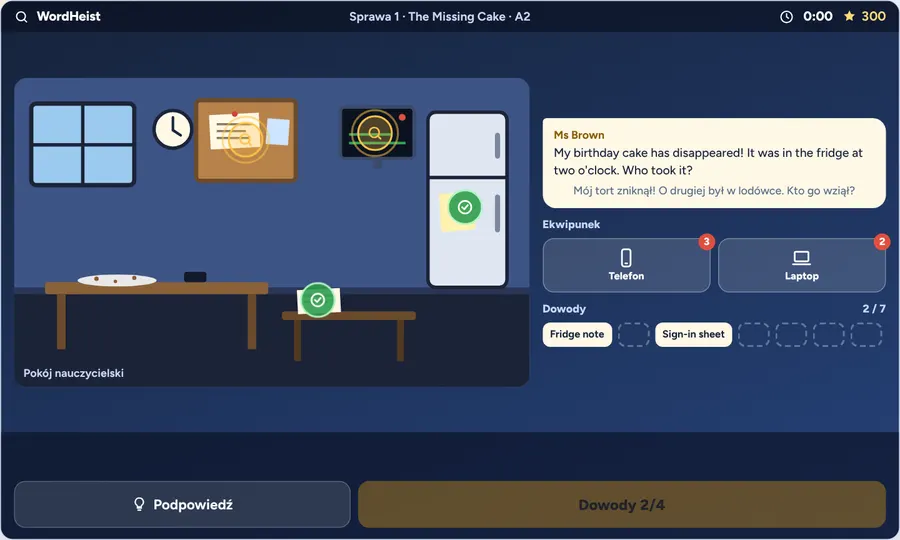
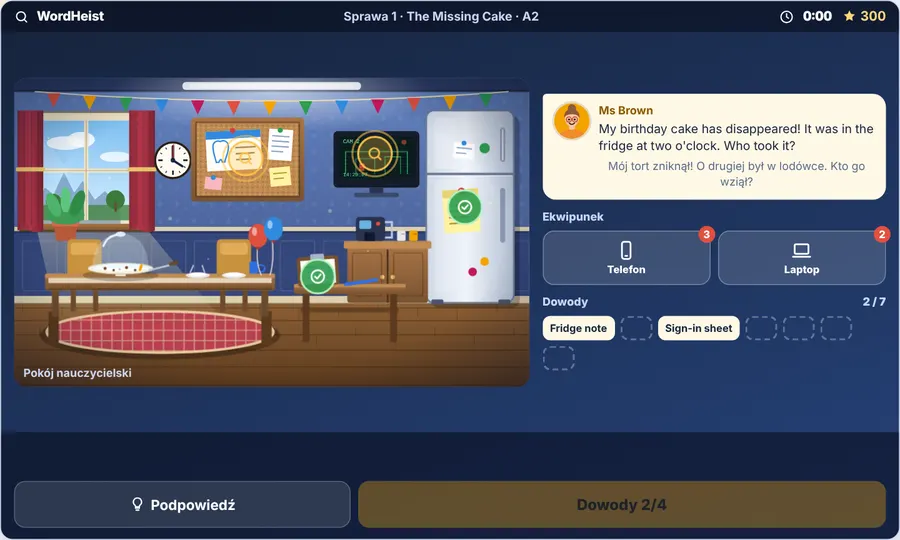
WordHeist: bogatsza grafika (szczegółowy pokój nauczycielski, awatary postaci, dokumenty z taśmą i papierem w linie, ekran kamery, telefon i laptop), nowa karta i zrzut do Poradnika
Claude-Session: https://claude.ai/code/session_01MyUW9fQB8JttoV36Ji4mpt

diff --git a/index.html b/index.html
@@ -910,7 +910,7 @@ details.grp[open] summary::before{transform:rotate(45deg)}
 .hs-chips{display:flex;flex-wrap:wrap;gap:6px}
 .hs-chip{min-width:34px;height:26px;padding:0 8px;border-radius:8px;border:2px dashed rgba(255,255,255,.3);box-sizing:border-box;font-size:11px;font-weight:700;display:inline-flex;align-items:center}
 .hs-chip.on{border:0;background:#fff8e6;color:#16233b}
-.hs-ov{position:absolute;inset:0;z-index:5;overflow:auto;padding:14px 18px;background:rgba(15,22,40,.97);display:flex;flex-direction:column;gap:10px;align-items:stretch}
+.hs-ov{position:absolute;inset:0;z-index:5;overflow:auto;padding:14px 18px;background:#0f1628;display:flex;flex-direction:column;gap:10px;align-items:stretch}
 .hs-ov>*{width:100%;max-width:580px;margin-left:auto;margin-right:auto}
 .hs-ov.mid{align-items:center;justify-content:center;text-align:center}
 .hs-ov.mid p{max-width:460px;margin:0;color:#e3ebfa;font-size:15px}
@@ -961,6 +961,19 @@ details.grp[open] summary::before{transform:rotate(45deg)}
 .hs-words2{display:flex;flex-wrap:wrap;gap:6px;justify-content:center;font-size:12px}.hs-words2 b{width:100%;color:#c9d6f2}.hs-words2 span{padding:3px 10px;border-radius:999px;background:rgba(255,255,255,.12);font-weight:700}
 @media(max-width:699px){.hs-wrap{grid-template-columns:1fr}.hs-stage .gs-body{min-height:560px}.hs-suss{grid-template-columns:1fr 1fr}}
 @media(prefers-reduced-motion:reduce){.hs-spot::after,.hs-inv.glow{animation:none}}
+.hs-bg .hsg-sec{transform-origin:185px 96px;animation:hsrot 60s linear infinite}.hs-bg .hsg-rec{animation:hsblink 1.2s steps(2) infinite}@keyframes hsrot{to{transform:rotate(360deg)}}@keyframes hsblink{50%{opacity:.15}}@media(prefers-reduced-motion:reduce){.hs-bg .hsg-sec,.hs-bg .hsg-rec{animation:none}}
+.hs-bub{display:flex;gap:10px;align-items:flex-start}.hs-bub>div{min-width:0}.hs-av{flex:none;border-radius:50%;box-shadow:0 0 0 2px rgba(0,0,0,.12)}
+.hs-sus span{background:none!important}.hs-sus span .hs-av{display:block}.hs-sus small{text-align:left}
+.hs-dlg p{display:flex;gap:8px;align-items:center}.hs-dlg .you{padding-left:38px}
+.hs-doc{position:relative}.hs-doc::before{content:"";position:absolute;left:28px;top:-10px;width:58px;height:17px;background:rgba(255,255,255,.55);border:1px solid rgba(0,0,0,.1);transform:rotate(-3deg);box-shadow:0 1px 2px rgba(0,0,0,.15)}
+.hs-note{font-family:"Segoe Print","Bradley Hand","Comic Sans MS",cursive,"Figtree",sans-serif;font-weight:600;line-height:26px;background:repeating-linear-gradient(transparent 0 25px,#e3d6b4 25px 26px)}
+.hs-note.card{font-family:"Figtree",system-ui,sans-serif;border:2px solid #2f8ae0;border-radius:8px;padding:10px 12px;background:#fff;line-height:1.5}.hs-note.card::before{content:"\1F9B7 ";font-size:20px}
+.hs-cam{background:repeating-linear-gradient(#0b1220 0 3px,#0e1829 3px 4px);box-shadow:inset 0 0 40px rgba(0,0,0,.7);border:3px solid #3b4a6b}
+.hs-sms div{box-shadow:0 2px 4px rgba(0,0,0,.2)}.hs-mail{border-left:4px solid #2f8ae0;padding-left:12px}
+.hs-app.lp{border:4px solid #3b4a6b;border-radius:12px}.hs-app.lp .hs-appbar::before{content:"";width:9px;height:9px;border-radius:50%;background:#e0503f;box-shadow:14px 0 #f5a300,28px 0 #2e9d4f;margin-right:34px}
+.hs-app.ph .hs-appbar{position:relative;padding-top:18px}.hs-app.ph .hs-appbar::before{content:"";width:46px;height:5px;border-radius:3px;background:#2a3550;position:absolute;left:50%;top:6px;transform:translateX(-50%)}
+.hs-row{padding-left:58px}.hs-row .hs-av,.hs-row .hs-ic{position:absolute;left:12px;top:50%;margin-top:-17px}.hs-ic{width:34px;height:34px;border-radius:50%;background:#2f8ae0;color:#fff;display:flex;align-items:center;justify-content:center}
+.hs-app.ph{background:linear-gradient(170deg,#1a2547,#0c1220);max-width:340px!important}
 .cn-lbp .cn-seg,.hwtabs{display:flex;flex-wrap:wrap;width:fit-content;max-width:100%;box-sizing:border-box}
 </style>
 </head>
@@ -3198,6 +3211,14 @@ const HSI=[
  {id:9,src:'laptop',n:'Canteen e-mail',s:'jadłospis',k:'mail',f:'Canteen',sub:'Lunch menu for next week',t:'Soup on Monday, pizza on Tuesday, fish on Friday.',pl:'Zupa w poniedziałek, pizza we wtorek, ryba w piątek.',q:null}];
 const HSW=[['wpół do','half past'],['kwadrans do','quarter to'],['pożyczać','borrow'],['alibi','alibi'],['dowód','evidence'],['podejrzany','suspect']];
 const HSQ=["Where","were","you","at","two","o'clock?"],HSPROOF=[2,3,6,7],HSEV=HSI.filter(x=>x.q);
+const HSAV={
+ tom:{bg:'#2358d6',skin:'#f1c7a0',top:'#3f7de0',hair:'<path d="M13.5 20c-1-9 5-13 10.5-13s11.5 4 10.5 13c-2-3-4-5-6-5.5-3 2-8 2-10 0-2 .5-3.5 2.5-5 5.5z" fill="#5a3a1e"/><path d="M19 8l2-3 2 3M26 8l3-2-.5 3.5" stroke="#5a3a1e" stroke-width="2" fill="none" stroke-linecap="round"/>'},
+ lucy:{bg:'#c2185b',skin:'#f6d0b0',top:'#f48fb1',back:'<path d="M12 20c0-9 5-13 12-13s12 4 12 13v19H12z" fill="#2b1a14"/>',hair:'<path d="M14 19c2-7 7-9 10-9s8 2 10 9c-3-3-6-4-10-4s-7 1-10 4z" fill="#2b1a14"/>'},
+ green:{bg:'#00796b',skin:'#e8b88f',top:'#26a69a',hair:'<path d="M14 18c0-7 5-10 10-10s10 3 10 10c-3-3-6-4-10-4s-7 1-10 4z" fill="#6b5a4a"/>',front:'<g fill="none" stroke="#16233b" stroke-width="1.2"><circle cx="20" cy="22" r="3.4"/><circle cx="28" cy="22" r="3.4"/><path d="M23.4 22h1.2"/></g><path d="M19 36l5 9 5-9" fill="none" stroke="#fff" stroke-width="1.1"/><circle cx="24" cy="45" r="2" fill="#f5a300"/>'},
+ ola:{bg:'#6a1b9a',skin:'#f1c7a0',top:'#2e9d4f',back:'<path d="M12 22c0-10 5-15 12-15s12 5 12 15v8H12z" fill="#7b2da0"/>',hair:'<path d="M14 19c2-6 6-8 10-8s8 2 10 8c-3-2-6-3-10-3s-7 1-10 3z" fill="#9b4dc4"/>',front:'<path d="M16 48V39h16v9z" fill="#4bbf70"/>'},
+ mum:{bg:'#7e57c2',skin:'#f1c7a0',top:'#b39ddb',back:'<path d="M12 20c0-9 5-13 12-13s12 4 12 13v10H12z" fill="#a0522d"/>',hair:'<path d="M14 19c2-7 7-9 10-9s8 2 10 9c-3-3-6-4-10-4s-7 1-10 4z" fill="#a0522d"/>'},
+ brown:{bg:'#f5a300',skin:'#f1c7a0',top:'#f08a2c',back:'<circle cx="24" cy="7" r="5.5" fill="#8a5a3a"/>',hair:'<path d="M13.5 20c0-9 5-12 10.5-12s10.5 3 10.5 12c-2-3-4-5-10.5-5s-8.5 2-10.5 5z" fill="#8a5a3a"/>',front:'<g fill="none" stroke="#c0392b" stroke-width="1.2"><circle cx="20" cy="22" r="3.4"/><circle cx="28" cy="22" r="3.4"/><path d="M23.4 22h1.2"/></g>'}};
+function hsAv(k,z){const a=HSAV[k];return'<svg class="hs-av" viewBox="0 0 48 48" width="'+z+'" height="'+z+'" aria-hidden="true"><defs><clipPath id="hsav-'+k+'"><circle cx="24" cy="24" r="24"/></clipPath></defs><g clip-path="url(#hsav-'+k+')"><rect width="48" height="48" fill="'+a.bg+'"/>'+(a.back||'')+'<path d="M6 48c0-9 8-13 18-13s18 4 18 13z" fill="'+a.top+'"/><rect x="20" y="28" width="8" height="8" rx="3" fill="'+a.skin+'"/><ellipse cx="24" cy="21" rx="9.5" ry="10.5" fill="'+a.skin+'"/>'+a.hair+'<circle cx="20.2" cy="22" r="1.3" fill="#2a1a0e"/><circle cx="27.8" cy="22" r="1.3" fill="#2a1a0e"/><path d="M20.5 27c2 2 5 2 7 0" stroke="#2a1a0e" stroke-width="1.4" fill="none" stroke-linecap="round"/><circle cx="17.2" cy="25" r="2" fill="#ef8a8a" opacity=".45"/><circle cx="30.8" cy="25" r="2" fill="#ef8a8a" opacity=".45"/>'+(a.front||'')+'</g></svg>'}
 const hsIt=id=>HSI.find(x=>x.id===id);
 function hsNew(){HS={go:0,v:'scene',app:'',cur:0,done:{},seen:{},pl:{},hid:{},wr:{},bad:{},err:0,hint:0,t0:0,tEnd:0,interr:0,sus:-1,sel:[],ask:null,msg:'',glow:'',over:0};return HS}
 function hsSecs(){return HS.go&&HS.t0?Math.max(0,Math.round(((HS.over?HS.tEnd:Date.now())-HS.t0)/1000)):0}
@@ -3271,21 +3292,82 @@ function hsProfile(){
    '<button class="nb" onclick="show(\'heist\')">Graj</button>')
 }
 const hsAwardHtml=()=>HS.gain==null?'liczę…':HS.gain>0?'+'+HS.gain+' do rankingu dziś':'masz dziś już lepszy wynik w tej sprawie';
-const HSSCENE=`<svg class="hs-bg" viewBox="0 0 600 360" preserveAspectRatio="xMidYMid meet" aria-hidden="true"><rect width="600" height="250" fill="#3d5486"/><rect y="250" width="600" height="110" fill="#1c2338"/><rect y="244" width="600" height="8" fill="#2a3556"/>
-<rect x="20" y="30" width="120" height="95" rx="6" fill="#9ccaf0" stroke="#1c2338" stroke-width="5"/><path d="M80 30v95M20 78h120" stroke="#1c2338" stroke-width="4"/>
-<circle cx="185" cy="60" r="22" fill="#fff8e6" stroke="#1c2338" stroke-width="4"/><path d="M185 46v15l9 6" stroke="#16233b" stroke-width="3" fill="none" stroke-linecap="round"/>
-<rect x="212" y="26" width="116" height="94" rx="5" fill="#b7824a" stroke="#6b4a2b" stroke-width="5"/><rect x="228" y="42" width="58" height="40" fill="#fff8e6" transform="rotate(-3 257 62)"/><path d="M236 54h40M236 62h34M236 70h38" stroke="#8a7a5a" stroke-width="2.5"/><rect x="294" y="48" width="26" height="30" fill="#cde4ff" transform="rotate(4 307 63)"/><circle cx="257" cy="42" r="3.4" fill="#d6403a"/>
-<rect x="380" y="34" width="86" height="60" rx="5" fill="#0b1220" stroke="#3b4a6b" stroke-width="4"/><path d="M390 76h66M390 66h50" stroke="#2fa05a" stroke-width="3"/><circle cx="452" cy="46" r="4" fill="#e0503f"/><rect x="418" y="94" width="10" height="12" fill="#3b4a6b"/>
-<rect x="482" y="40" width="92" height="204" rx="9" fill="#dfe6f2" stroke="#1c2338" stroke-width="4"/><path d="M482 116h92" stroke="#1c2338" stroke-width="4"/><rect x="560" y="64" width="6" height="30" rx="3" fill="#7a869f"/><rect x="560" y="136" width="6" height="44" rx="3" fill="#7a869f"/><rect x="496" y="134" width="40" height="44" fill="#fff3b0" transform="rotate(-4 516 156)"/>
-<rect x="36" y="238" width="260" height="14" rx="3" fill="#8a6238"/><rect x="50" y="252" width="10" height="64" fill="#6b4a2b"/><rect x="272" y="252" width="10" height="64" fill="#6b4a2b"/><ellipse cx="120" cy="236" rx="46" ry="7" fill="#e8e8e8"/><circle cx="96" cy="234" r="2.6" fill="#8a5a2b"/><circle cx="118" cy="237" r="2" fill="#8a5a2b"/><circle cx="140" cy="233" r="2.4" fill="#8a5a2b"/><rect x="198" y="226" width="26" height="12" rx="3" fill="#11182b"/>
-<rect x="312" y="272" width="156" height="10" rx="3" fill="#6b4a2b"/><rect x="326" y="282" width="8" height="48" fill="#52381f"/><rect x="446" y="282" width="8" height="48" fill="#52381f"/><rect x="330" y="246" width="50" height="28" fill="#fff8e6" transform="rotate(-3 355 260)"/><path d="M338 254h34M338 261h28" stroke="#8a7a5a" stroke-width="2.5"/></svg>`;
-const HSSP={fridge:[87.5,42,'lodówka'],cam:[70,18,'kamera'],sheet:[59,72,'lista obecności'],board:[45,20,'tablica ogłoszeń']};
+const HSSCENE=`<svg class="hs-bg" viewBox="0 0 600 360" preserveAspectRatio="xMidYMid meet" aria-hidden="true"><defs>
+<linearGradient id="hsg-w" x1="0" y1="0" x2="0" y2="1"><stop offset="0" stop-color="#6483c0"/><stop offset="1" stop-color="#43588f"/></linearGradient>
+<pattern id="hsg-p" width="20" height="20" patternUnits="userSpaceOnUse"><path d="M10 3l3 4-3 4-3-4z" fill="#fff" opacity=".07"/><circle cx="0" cy="13" r="1.4" fill="#fff" opacity=".05"/><circle cx="20" cy="13" r="1.4" fill="#fff" opacity=".05"/></pattern>
+<linearGradient id="hsg-f" x1="0" y1="0" x2="0" y2="1"><stop offset="0" stop-color="#8b5e34"/><stop offset="1" stop-color="#5b3a1e"/></linearGradient>
+<linearGradient id="hsg-sky" x1="0" y1="0" x2="0" y2="1"><stop offset="0" stop-color="#7ec0f2"/><stop offset="1" stop-color="#d8efff"/></linearGradient>
+<linearGradient id="hsg-fr" x1="0" y1="0" x2="1" y2="0"><stop offset="0" stop-color="#cfd8e6"/><stop offset=".45" stop-color="#f1f5fb"/><stop offset="1" stop-color="#b3bfd2"/></linearGradient>
+<linearGradient id="hsg-wd" x1="0" y1="0" x2="0" y2="1"><stop offset="0" stop-color="#a77446"/><stop offset="1" stop-color="#7a5230"/></linearGradient>
+<linearGradient id="hsg-cu" x1="0" y1="0" x2="1" y2="0"><stop offset="0" stop-color="#8c2a3a"/><stop offset=".5" stop-color="#b5384b"/><stop offset="1" stop-color="#7a2231"/></linearGradient>
+<linearGradient id="hsg-bm" x1="0" y1="0" x2="0" y2="1"><stop offset="0" stop-color="#fff6c8" stop-opacity=".34"/><stop offset="1" stop-color="#fff6c8" stop-opacity="0"/></linearGradient>
+<radialGradient id="hsg-lg" cx=".5" cy=".5" r=".5"><stop offset="0" stop-color="#fff" stop-opacity=".55"/><stop offset="1" stop-color="#fff" stop-opacity="0"/></radialGradient>
+<radialGradient id="hsg-vg" cx=".5" cy=".5" r=".75"><stop offset=".6" stop-color="#0b1226" stop-opacity="0"/><stop offset="1" stop-color="#0b1226" stop-opacity=".5"/></radialGradient>
+<pattern id="hsg-ck" width="6" height="6" patternUnits="userSpaceOnUse"><rect width="6" height="6" fill="#c08a52"/><circle cx="1.5" cy="1.5" r=".8" fill="#9d6c3c"/><circle cx="4.5" cy="4" r=".9" fill="#d9a56e"/></pattern>
+<pattern id="hsg-rg" width="12" height="12" patternUnits="userSpaceOnUse"><rect width="12" height="12" fill="#b8404f"/><path d="M0 6h12M6 0v12" stroke="#e7c9a0" stroke-width="1.2" opacity=".7"/></pattern>
+</defs>
+<rect width="600" height="262" fill="url(#hsg-w)"/><rect width="600" height="262" fill="url(#hsg-p)"/>
+<rect y="176" width="600" height="86" fill="#34467a"/><path d="M0 176h600" stroke="#dccfae" stroke-width="5"/><path d="M0 180h600" stroke="#000" stroke-opacity=".18" stroke-width="2"/>
+${Array.from({length:12},(_,i)=>`<rect x="${10+i*50}" y="190" width="40" height="58" rx="2" fill="none" stroke="#fff" stroke-opacity=".1" stroke-width="1.5"/>`).join('')}
+<rect y="254" width="600" height="9" fill="#dccfae"/><rect y="262" width="600" height="2" fill="#000" fill-opacity=".25"/>
+<rect y="263" width="600" height="97" fill="url(#hsg-f)"/>
+${Array.from({length:7},(_,i)=>`<path d="M0 ${268+i*14+i*i*.8}H600" stroke="#2c1a0b" stroke-opacity=".35" stroke-width="1.2"/>`).join('')}
+${Array.from({length:14},(_,i)=>`<path d="M${i*46+10} ${264+(i%3)*3}v${8+(i%4)*2}M${i*46+30} ${290+(i%2)*10}v12" stroke="#2c1a0b" stroke-opacity=".28" stroke-width="1"/>`).join('')}
+<rect width="600" height="16" fill="#2b3a63"/><rect y="14" width="600" height="3" fill="#000" fill-opacity=".25"/>
+<ellipse cx="300" cy="18" rx="190" ry="46" fill="url(#hsg-lg)"/><rect x="196" y="5" width="208" height="9" rx="4" fill="#f1f6ff"/><rect x="204" y="7" width="192" height="4" rx="2" fill="#fff"/>
+<path d="M24 16Q300 38 576 16" fill="none" stroke="#e9d9b0" stroke-width="1.6"/>
+${Array.from({length:13},(_,i)=>{const t=.04+i*.076,x=24+552*t,y=16+44*t*(1-t);return`<path d="M${(x-8).toFixed(1)} ${y.toFixed(1)}h16l-8 17z" fill="${['#e0503f','#f5a300','#2e9d4f','#2f8ae0','#c2185b'][i%5]}"/><path d="M${(x-8).toFixed(1)} ${y.toFixed(1)}h16" stroke="#fff" stroke-opacity=".5" stroke-width="1"/>`}).join('')}
+<polygon points="24,166 146,166 262,306 56,306" fill="url(#hsg-bm)"/>
+<g><rect x="12" y="40" width="144" height="136" rx="5" fill="#efe3c8" stroke="#8d7a52" stroke-width="2"/><rect x="22" y="50" width="124" height="116" fill="url(#hsg-sky)"/>
+<ellipse cx="60" cy="76" rx="22" ry="8" fill="#fff" opacity=".85"/><ellipse cx="78" cy="72" rx="16" ry="9" fill="#fff" opacity=".85"/><ellipse cx="118" cy="92" rx="18" ry="6" fill="#fff" opacity=".75"/>
+<path d="M22 150l14-22 10 8 12-26 12 24 10-14 14 22 12-10 18 20v18H22z" fill="#5a7aa8" opacity=".55"/><rect x="22" y="148" width="124" height="18" fill="#4c8a4a" opacity=".85"/><circle cx="46" cy="144" r="9" fill="#3c7a3b"/><rect x="45" y="144" width="2.4" height="10" fill="#6b4a2b"/><circle cx="118" cy="142" r="11" fill="#3c7a3b"/><rect x="117" y="144" width="2.6" height="12" fill="#6b4a2b"/>
+<path d="M84 50v116M22 108h124" stroke="#efe3c8" stroke-width="5"/><path d="M84 50v116M22 108h124" stroke="#8d7a52" stroke-opacity=".5" stroke-width="1"/>
+<path d="M22 50l45 66h-45z" fill="#fff" opacity=".14"/>
+<rect x="6" y="170" width="156" height="9" rx="2" fill="url(#hsg-wd)"/><rect x="6" y="177" width="156" height="3" fill="#000" fill-opacity=".25"/>
+<path d="M4 38h30v140q-8 4-15 0t-15 0z" fill="url(#hsg-cu)"/><path d="M12 40v130M20 40v132M28 40v128" stroke="#000" stroke-opacity=".16" stroke-width="1.6"/><path d="M134 38h30v140q-8 4-15 0t-15 0z" fill="url(#hsg-cu)"/><path d="M142 40v130M150 40v132M158 40v128" stroke="#000" stroke-opacity=".16" stroke-width="1.6"/>
+<rect x="2" y="104" width="34" height="5" rx="2" fill="#e7c36a"/><rect x="132" y="104" width="34" height="5" rx="2" fill="#e7c36a"/></g>
+<path d="M46 170h28l-3 20H49z" fill="#b5593a"/><rect x="44" y="167" width="32" height="6" rx="2" fill="#cf6d4a"/><ellipse cx="60" cy="160" rx="22" ry="11" fill="#3f9a56"/><ellipse cx="46" cy="148" rx="7" ry="15" fill="#4fb36a" transform="rotate(-24 46 148)"/><ellipse cx="74" cy="146" rx="7" ry="16" fill="#2f8a48" transform="rotate(22 74 146)"/><ellipse cx="60" cy="142" rx="6" ry="15" fill="#5cc47e"/>
+<g><circle cx="185" cy="96" r="22" fill="#2a1f14"/><circle cx="185" cy="96" r="19.5" fill="#fffaf0"/>${Array.from({length:12},(_,i)=>`<path d="M185 ${79}v${i%3?2.5:5}" stroke="#16233b" stroke-width="${i%3?1:2}" transform="rotate(${i*30} 185 96)"/>`).join('')}<path d="M185 96V80" stroke="#16233b" stroke-width="3" stroke-linecap="round"/><path d="M185 96l11 7" stroke="#16233b" stroke-width="2.6" stroke-linecap="round"/><path class="hsg-sec" d="M185 98V77" stroke="#d6403a" stroke-width="1.2"/><circle cx="185" cy="96" r="2.6" fill="#16233b"/><path d="M172 83a16 16 0 0 1 11-5" stroke="#fff" stroke-opacity=".8" stroke-width="2" fill="none" stroke-linecap="round"/></g>
+<g><rect x="206" y="46" width="132" height="98" rx="5" fill="url(#hsg-wd)"/><rect x="212" y="52" width="120" height="86" fill="url(#hsg-ck)"/><rect x="212" y="52" width="120" height="86" fill="none" stroke="#000" stroke-opacity=".3" stroke-width="2"/>
+<g transform="rotate(-3 246 88)"><rect x="224" y="62" width="64" height="46" fill="#fffdf6"/><rect x="224" y="62" width="64" height="9" fill="#2f8ae0"/><path d="M232 80c0-6 5-8 9-6 4-2 9 0 9 6 0 8-4 12-5 18h-3c-1-5-3-3-4 0h-3c-1-6-3-10-3-18z" fill="none" stroke="#2f8ae0" stroke-width="1.6"/><path d="M258 82h24M258 89h22M258 96h18" stroke="#8a7a5a" stroke-width="1.8"/><circle cx="256" cy="62" r="3.2" fill="#d6403a"/></g>
+<rect x="296" y="60" width="28" height="36" fill="#fff" transform="rotate(4 310 78)"/><path d="M300 68h20M300 74h20M300 80h20M300 86h14" stroke="#8aa0c8" stroke-width="1.5" transform="rotate(4 310 78)"/><circle cx="310" cy="61" r="3" fill="#2e9d4f"/>
+<rect x="298" y="104" width="24" height="22" fill="#fff3a3" transform="rotate(-5 310 115)"/><path d="M302 111h16M302 117h12" stroke="#b79b2e" stroke-width="1.4" transform="rotate(-5 310 115)"/><rect x="222" y="116" width="20" height="14" fill="#f9b7c0" transform="rotate(6 232 123)"/><circle cx="232" cy="116" r="2.8" fill="#2f8ae0"/></g>
+<g><rect x="372" y="62" width="100" height="66" rx="5" fill="#161c2b"/><rect x="378" y="68" width="88" height="50" rx="2" fill="#07101a"/><rect x="378" y="68" width="88" height="50" rx="2" fill="#2fa05a" opacity=".1"/>
+<path d="M386 112V86h72v26" fill="none" stroke="#2fd47a" stroke-opacity=".7" stroke-width="1.3"/><path d="M398 112V94h22v18M432 112V92h18v20" fill="none" stroke="#2fd47a" stroke-opacity=".55" stroke-width="1.2"/><rect x="402" y="100" width="6" height="8" fill="#e0503f" opacity=".85"/>
+${Array.from({length:12},(_,i)=>`<path d="M378 ${70+i*4}h88" stroke="#000" stroke-opacity=".28" stroke-width=".8"/>`).join('')}
+<circle class="hsg-rec" cx="454" cy="75" r="3" fill="#e0503f"/><text x="383" y="76" font-family="ui-monospace,Menlo,Consolas,monospace" font-size="6.5" fill="#7bf0a6">CAM 2</text><text x="383" y="115" font-family="ui-monospace,Menlo,Consolas,monospace" font-size="6" fill="#7bf0a6">14:20:07</text>
+<rect x="414" y="128" width="16" height="8" fill="#2a3350"/><rect x="396" y="134" width="52" height="5" rx="2" fill="#3b4a6b"/></g>
+<g><rect x="480" y="40" width="104" height="224" rx="10" fill="#000" fill-opacity=".25" transform="translate(5 4)"/><rect x="480" y="38" width="102" height="224" rx="9" fill="url(#hsg-fr)" stroke="#6d7b95" stroke-width="2"/><path d="M480 112h102" stroke="#6d7b95" stroke-width="3"/><path d="M482 114h98" stroke="#fff" stroke-opacity=".6" stroke-width="1"/>
+<rect x="566" y="58" width="6" height="40" rx="3" fill="#8a97b0"/><rect x="566" y="128" width="6" height="64" rx="3" fill="#8a97b0"/><rect x="568" y="60" width="2" height="36" fill="#fff" fill-opacity=".6"/>
+<rect x="490" y="46" width="26" height="60" rx="4" fill="#fff" opacity=".22"/><rect x="490" y="120" width="22" height="130" rx="4" fill="#fff" opacity=".2"/>
+<rect x="500" y="130" width="42" height="50" fill="#fff3a3" transform="rotate(-4 521 155)"/><rect x="500" y="130" width="42" height="9" fill="#e7d374" transform="rotate(-4 521 155)"/><path d="M506 148h30M506 155h28M506 162h30M506 169h18" stroke="#9a8420" stroke-width="1.6" transform="rotate(-4 521 155)"/><circle cx="521" cy="132" r="4.2" fill="#d6403a"/><circle cx="520" cy="131" r="1.4" fill="#fff" opacity=".7"/>
+<circle cx="548" cy="82" r="6" fill="#2e9d4f"/><rect x="512" y="76" width="24" height="18" fill="#fff" transform="rotate(5 524 85)"/><path d="M515 82h18M515 88h12" stroke="#8aa0c8" stroke-width="1.4" transform="rotate(5 524 85)"/><circle cx="524" cy="76" r="2.8" fill="#2f8ae0"/><circle cx="548" cy="214" r="5" fill="#f5a300"/><circle cx="534" cy="226" r="5" fill="#c2185b"/>
+<rect x="486" y="258" width="14" height="6" rx="2" fill="#4a5470"/><rect x="564" y="258" width="14" height="6" rx="2" fill="#4a5470"/></g>
+<g><rect x="388" y="196" width="94" height="66" rx="3" fill="url(#hsg-wd)"/><rect x="384" y="190" width="102" height="9" rx="2" fill="#c08a52"/><path d="M435 200v62" stroke="#4b3019" stroke-width="2"/><circle cx="429" cy="232" r="2.4" fill="#e7c36a"/><circle cx="441" cy="232" r="2.4" fill="#e7c36a"/><rect x="394" y="204" width="34" height="50" rx="2" fill="none" stroke="#000" stroke-opacity=".22" stroke-width="1.4"/><rect x="442" y="204" width="34" height="50" rx="2" fill="none" stroke="#000" stroke-opacity=".22" stroke-width="1.4"/>
+<rect x="398" y="162" width="34" height="28" rx="4" fill="#2a3350"/><rect x="402" y="166" width="14" height="10" rx="2" fill="#7bd3ff" opacity=".8"/><circle cx="424" cy="170" r="2.4" fill="#e0503f"/><rect x="408" y="180" width="12" height="10" fill="#0f1730"/><path d="M432 168h8v18h-8" fill="none" stroke="#bfc9db" stroke-width="2.4"/><rect x="446" y="178" width="10" height="12" rx="2" fill="#e8e8e8"/><rect x="460" y="178" width="10" height="12" rx="2" fill="#f5a300"/><path d="M451 182h4M465 182h4" stroke="#000" stroke-opacity=".25" stroke-width="1.4"/></g>
+<g><ellipse cx="170" cy="300" rx="140" ry="28" fill="#000" fill-opacity=".3"/><ellipse cx="170" cy="296" rx="132" ry="24" fill="url(#hsg-rg)"/><ellipse cx="170" cy="296" rx="132" ry="24" fill="none" stroke="#e7c9a0" stroke-width="3"/></g>
+<g><rect x="62" y="188" width="40" height="46" rx="5" fill="#c9923e"/><rect x="66" y="192" width="32" height="14" rx="3" fill="#e0ac5a"/><rect x="66" y="232" width="6" height="40" fill="#6b4a2b"/><rect x="92" y="232" width="6" height="40" fill="#6b4a2b"/>
+<rect x="236" y="188" width="40" height="46" rx="5" fill="#c9923e"/><rect x="240" y="192" width="32" height="14" rx="3" fill="#e0ac5a"/><rect x="240" y="232" width="6" height="40" fill="#6b4a2b"/><rect x="266" y="232" width="6" height="40" fill="#6b4a2b"/></g>
+<g><rect x="40" y="272" width="12" height="40" fill="#5b3a1e"/><rect x="288" y="272" width="12" height="40" fill="#5b3a1e"/><rect x="44" y="244" width="8" height="34" fill="#6b4a2b"/><rect x="288" y="244" width="8" height="34" fill="#6b4a2b"/>
+<rect x="36" y="228" width="268" height="20" rx="3" fill="url(#hsg-wd)"/><rect x="36" y="228" width="268" height="5" rx="2" fill="#c08a52"/><path d="M40 246h260" stroke="#000" stroke-opacity=".25" stroke-width="2"/><rect x="40" y="233" width="260" height="6" fill="#fff8e6" opacity=".75"/><path d="M40 233h260" stroke="#c9b48a" stroke-width="1"/></g>
+<g><ellipse cx="124" cy="230" rx="44" ry="7" fill="#000" fill-opacity=".22"/><rect x="118" y="222" width="12" height="9" fill="#efe9dd"/><ellipse cx="124" cy="222" rx="38" ry="6.5" fill="#f6f1e6" stroke="#cdbfa3" stroke-width="1"/><ellipse cx="124" cy="221" rx="30" ry="4.2" fill="#fff"/>
+<path d="M92 222c0-26 14-40 32-40s32 14 32 40z" fill="#cfe9ff" opacity=".28" stroke="#fff" stroke-opacity=".7" stroke-width="1.4"/><ellipse cx="124" cy="182" rx="6" ry="3" fill="#e9f5ff" opacity=".9"/><path d="M104 196c3-8 9-12 15-13" stroke="#fff" stroke-width="2.4" stroke-linecap="round" fill="none" opacity=".85"/>
+<circle cx="106" cy="222" r="1.8" fill="#7a4a24"/><circle cx="116" cy="224" r="1.4" fill="#7a4a24"/><circle cx="131" cy="221" r="1.8" fill="#7a4a24"/><circle cx="141" cy="224" r="1.5" fill="#7a4a24"/><circle cx="123" cy="223" r="1.2" fill="#e8a2b0"/><rect x="146" y="217" width="3" height="8" rx="1.4" fill="#f5a300" transform="rotate(20 147 221)"/><path d="M158 224l24-6" stroke="#b9c3d4" stroke-width="2.4" stroke-linecap="round"/><rect x="180" y="214" width="12" height="4" rx="2" fill="#6b4a2b" transform="rotate(-14 186 216)"/></g>
+<g><ellipse cx="214" cy="230" rx="14" ry="3.4" fill="#e9e9e9"/><ellipse cx="214" cy="229" rx="10" ry="2.2" fill="#fff"/><path d="M205 227l4-9M222 227l-3-9" stroke="#b9c3d4" stroke-width="1.6"/><ellipse cx="256" cy="230" rx="14" ry="3.4" fill="#e9e9e9"/><ellipse cx="256" cy="229" rx="10" ry="2.2" fill="#fff"/><rect x="274" y="214" width="10" height="14" rx="2" fill="#2f6fe0"/><path d="M284 218h4a3 3 0 0 1 0 8h-4" fill="none" stroke="#2f6fe0" stroke-width="2"/></g>
+<g><path d="M284 192q-3 24 4 38M300 184q4 26-2 46" stroke="#e8e0cc" stroke-width="1.2" fill="none"/><ellipse cx="284" cy="184" rx="11" ry="14" fill="#e0503f"/><ellipse cx="280" cy="179" rx="3" ry="5" fill="#fff" opacity=".5"/><ellipse cx="302" cy="176" rx="11" ry="14" fill="#2f8ae0"/><ellipse cx="298" cy="171" rx="3" ry="5" fill="#fff" opacity=".5"/><path d="M281 197l3 4 3-4zM299 189l3 4 3-4z" fill="#a8372b"/></g>
+<g><rect x="326" y="240" width="130" height="12" rx="3" fill="url(#hsg-wd)"/><rect x="326" y="240" width="130" height="4" fill="#c08a52"/><rect x="336" y="252" width="8" height="56" fill="#5b3a1e"/><rect x="438" y="252" width="8" height="56" fill="#5b3a1e"/><rect x="334" y="268" width="114" height="5" fill="#5b3a1e" opacity=".8"/>
+<g transform="rotate(-4 354 224)"><rect x="330" y="208" width="48" height="34" rx="3" fill="#7a5230"/><rect x="334" y="212" width="40" height="28" fill="#fffdf6"/><rect x="346" y="205" width="16" height="8" rx="2" fill="#aab4c8"/><path d="M338 220h32M338 226h32M338 232h24" stroke="#b9b09a" stroke-width="1.4"/><path d="M338 220h14" stroke="#2f6fe0" stroke-width="1.6"/></g>
+<rect x="384" y="236" width="40" height="4" rx="2" fill="#2f6fe0" transform="rotate(-8 404 238)"/></g>
+<rect width="600" height="360" fill="url(#hsg-vg)"/>
+${Array.from({length:9},(_,i)=>`<circle cx="${40+i*62+(i%3)*9}" cy="${70+((i*47)%150)}" r="${1.2+(i%3)*.5}" fill="#fff9d6" opacity=".35"/>`).join('')}
+</svg>`;
+const HSSP={fridge:[87.5,42,'lodówka'],cam:[70,24.5,'kamera'],sheet:[59,64.5,'lista obecności'],board:[45,26,'tablica ogłoszeń']};
 function hsScene(){
   const sp=Object.keys(HSSP).map(k=>{const it=HSI.find(x=>x.src===k),d=HS.done[it.id];return'<button class="hs-spot'+(d?' ok':'')+(HS.glow===k?' glow':'')+'" style="left:'+HSSP[k][0]+'%;top:'+HSSP[k][1]+'%" '+(d?'':'')+'onclick="hsOpen('+it.id+')" aria-label="'+HSSP[k][2]+(d?' (zbadane)':'')+'">'+ic(d?'check':'search')+'</button>'}).join('');
   const unread=a=>HSI.filter(x=>x.src===a&&!HS.seen[x.id]).length;
   const inv=[['phone','Telefon'],['laptop','Laptop']].map(x=>{const n=unread(x[0]);return'<button class="hs-inv'+(HS.glow===x[0]?' glow':'')+'" onclick="hsApp(\''+x[0]+'\')">'+ic(x[0])+'<span>'+x[1]+'</span>'+(n?'<em>'+n+'</em>':'')+'</button>'}).join('');
   const slots=HSEV.map(x=>HS.done[x.id]?'<span class="hs-chip on">'+esc(x.n)+'</span>':'<span class="hs-chip"></span>').join('');
-  return'<div class="hs-wrap"><div class="hs-scene">'+HSSCENE+sp+'<span class="hs-room">Pokój nauczycielski</span></div><div class="hs-side"><div class="hs-bub"><b>Ms Brown</b>My birthday cake has disappeared! It was in the fridge at two o\'clock. Who took it?<small>Mój tort zniknął! O drugiej był w lodówce. Kto go wziął?</small></div><h5>Ekwipunek</h5><div class="hs-invs">'+inv+'</div><h5>Dowody <b>'+hsSolved()+' / '+HSEV.length+'</b></h5><div class="hs-chips">'+slots+'</div></div></div>'
+  return'<div class="hs-wrap"><div class="hs-scene">'+HSSCENE+sp+'<span class="hs-room">Pokój nauczycielski</span></div><div class="hs-side"><div class="hs-bub">'+hsAv('brown',38)+'<div><b>Ms Brown</b>My birthday cake has disappeared! It was in the fridge at two o\'clock. Who took it?<small>Mój tort zniknął! O drugiej był w lodówce. Kto go wziął?</small></div></div><h5>Ekwipunek</h5><div class="hs-invs">'+inv+'</div><h5>Dowody <b>'+hsSolved()+' / '+HSEV.length+'</b></h5><div class="hs-chips">'+slots+'</div></div></div>'
 }
 function hsDoc(it){
   if(it.k==='note')return'<div class="hs-note">'+esc(it.t)+'</div>';
@@ -3305,17 +3387,17 @@ function hsItem(){
 }
 function hsAppH(){
   const ph=HS.app==='phone',list=HSI.filter(x=>x.src===HS.app);
-  return'<div class="hs-app '+(ph?'ph':'lp')+'"><div class="hs-appbar">'+ic(ph?'phone':'laptop')+(ph?'Telefon · SMS-y':'Laptop nauczyciela · e-maile')+'</div>'+list.map(x=>'<button class="hs-row'+(HS.seen[x.id]?'':' new')+(HS.done[x.id]?' got':'')+'" onclick="hsOpen('+x.id+')"><b>'+esc(x.f)+'</b><span>'+esc(ph?x.t:x.sub)+'</span>'+(HS.done[x.id]?ic('check','ok'):HS.seen[x.id]?'':'<i></i>')+'</button>').join('')+'</div>'
+  return'<div class="hs-app '+(ph?'ph':'lp')+'"><div class="hs-appbar">'+ic(ph?'phone':'laptop')+(ph?'Telefon · SMS-y':'Laptop nauczyciela · e-maile')+'</div>'+list.map(x=>'<button class="hs-row'+(HS.seen[x.id]?'':' new')+(HS.done[x.id]?' got':'')+'" onclick="hsOpen('+x.id+')">'+(HSAV[x.f.split(' ')[0].toLowerCase()]?hsAv(x.f.split(' ')[0].toLowerCase(),34):'<span class="hs-ic">'+ic('mail')+'</span>')+'<b>'+esc(x.f)+'</b><span>'+esc(ph?x.t:x.sub)+'</span>'+(HS.done[x.id]?ic('check','ok'):HS.seen[x.id]?'':'<i></i>')+'</button>').join('')+'</div>'
 }
 function hsBoardH(){
-  const sus=HSS.map((s,i)=>'<button class="hs-sus'+(HS.sus===i?' on':'')+'" onclick="hsSus('+i+')"><span style="background:'+s.c+'">'+s.n[0]+'</span><b>'+s.n+'</b><small>'+s.r+'</small><em>'+s.al+'</em></button>').join('');
+  const sus=HSS.map((s,i)=>'<button class="hs-sus'+(HS.sus===i?' on':'')+'" onclick="hsSus('+i+')"><span>'+hsAv(s.k,36)+'</span><b>'+s.n+'</b><small>'+s.r+'</small><em>'+s.al+'</em></button>').join('');
   const chips=HSEV.filter(x=>HS.done[x.id]).map(x=>'<button class="hs-ch'+(HS.sel.includes(x.id)?' on':'')+'" onclick="hsSel('+x.id+')">'+(HS.sel.includes(x.id)?ic('check'):'')+esc(x.n)+'</button>').join('');
   return'<p class="hs-lead">Kto wziął tort? Wybierz podejrzanego i dwa dowody, które go obciążają.</p><div class="hs-suss">'+sus+'</div><h5>Dowody przeciw'+(HS.sus>=0?': '+HSS[HS.sus].n:'')+' (wybierz 2)</h5><div class="hs-chs">'+chips+'</div><p class="hs-st">'+ic(HS.interr?'check':'alert',HS.interr?'ok':'warn')+(HS.interr?'Podejrzany przesłuchany.':'Najpierw przesłuchaj podejrzanego (przycisk poniżej).')+'</p>'
 }
 function hsAskH(){
   const a=HS.ask,sent=a.pick.map(i=>HSQ[i]).join(' ');
   let h='<p class="hs-lead">Ułóż pytanie do Toma z rozsypanych słów.</p><div class="hs-sent">'+esc(sent)+'</div><div class="hs-words">'+a.w.map(i=>'<button '+(a.pick.includes(i)||HS.interr?'disabled ':'')+'onclick="hsAskTap('+i+')">'+esc(HSQ[i])+'</button>').join('')+'</div>';
-  if(HS.interr)h+='<div class="hs-dlg"><p><b>Tom:</b> I was in the library.</p><p class="you">Sign-in sheet: a quarter to three…</p><p><b>Tom:</b> OK, I was in the gym. I played basketball.</p><small>Tom zmienił wersję. Wróć na tablicę i wybierz dowody, które obalają obie.</small></div>';
+  if(HS.interr)h+='<div class="hs-dlg"><p>'+hsAv('tom',30)+'<span><b>Tom:</b> I was in the library.</span></p><p class="you">Sign-in sheet: a quarter to three…</p><p>'+hsAv('tom',30)+'<span><b>Tom:</b> OK, I was in the gym. I played basketball.</span></p><small>Tom zmienił wersję. Wróć na tablicę i wybierz dowody, które obalają obie.</small></div>';
   return h
 }
 function hsWin(){
@@ -3327,7 +3409,7 @@ function renderHeist(){
   const head='<div class="cn-top"><span></span><button class="cn-snd" onclick="hsSnd()" aria-label="Dźwięk" title="Dźwięk">'+ic(snd?'volume':'mute')+'</button></div>';
   const hud='<div class="gs-hud"><span class="gs-t">'+ic('search')+'WordHeist</span><span class="gs-m">Sprawa 1 · The Missing Cake · A2</span><span class="gs-s">'+ic('clock')+'<b id="hs-time">'+hsFmt(sec)+'</b><i title="Tyle punktów dostaniesz, jeśli skończysz teraz. Maleje z błędami, podpowiedziami i czasem.">'+ic('star','f pt')+'<span id="hs-pts">'+est+'</span></i></span></div>';
   let ov='',body='';
-  if(!HS.go)ov='<div class="hs-ov mid"><div class="hs-bub big"><b>Ms Brown</b>My birthday cake has disappeared! It was in the fridge at two o\'clock. Who took it?<small>Mój tort urodzinowy zniknął! O drugiej był w lodówce. Kto go wziął?</small></div><p>Przeszukaj pokój nauczycielski, telefon i laptop. Czytaj po angielsku, rozwiązuj zagadki, przesłuchaj podejrzanego i wskaż sprawcę. Błąd nie kończy gry, ale odejmuje punkty. Wzorcowy czas: 6 minut.</p><button class="hs-go" onclick="hsStart()">Zacznij sprawę</button></div>';
+  if(!HS.go)ov='<div class="hs-ov mid"><div class="hs-bub big">'+hsAv('brown',52)+'<div><b>Ms Brown</b>My birthday cake has disappeared! It was in the fridge at two o\'clock. Who took it?<small>Mój tort urodzinowy zniknął! O drugiej był w lodówce. Kto go wziął?</small></div></div><p>Przeszukaj pokój nauczycielski, telefon i laptop. Czytaj po angielsku, rozwiązuj zagadki, przesłuchaj podejrzanego i wskaż sprawcę. Błąd nie kończy gry, ale odejmuje punkty. Wzorcowy czas: 6 minut.</p><button class="hs-go" onclick="hsStart()">Zacznij sprawę</button></div>';
   else{
     body=hsScene();
     if(v==='item')ov='<div class="hs-ov">'+hsItem()+'</div>';
